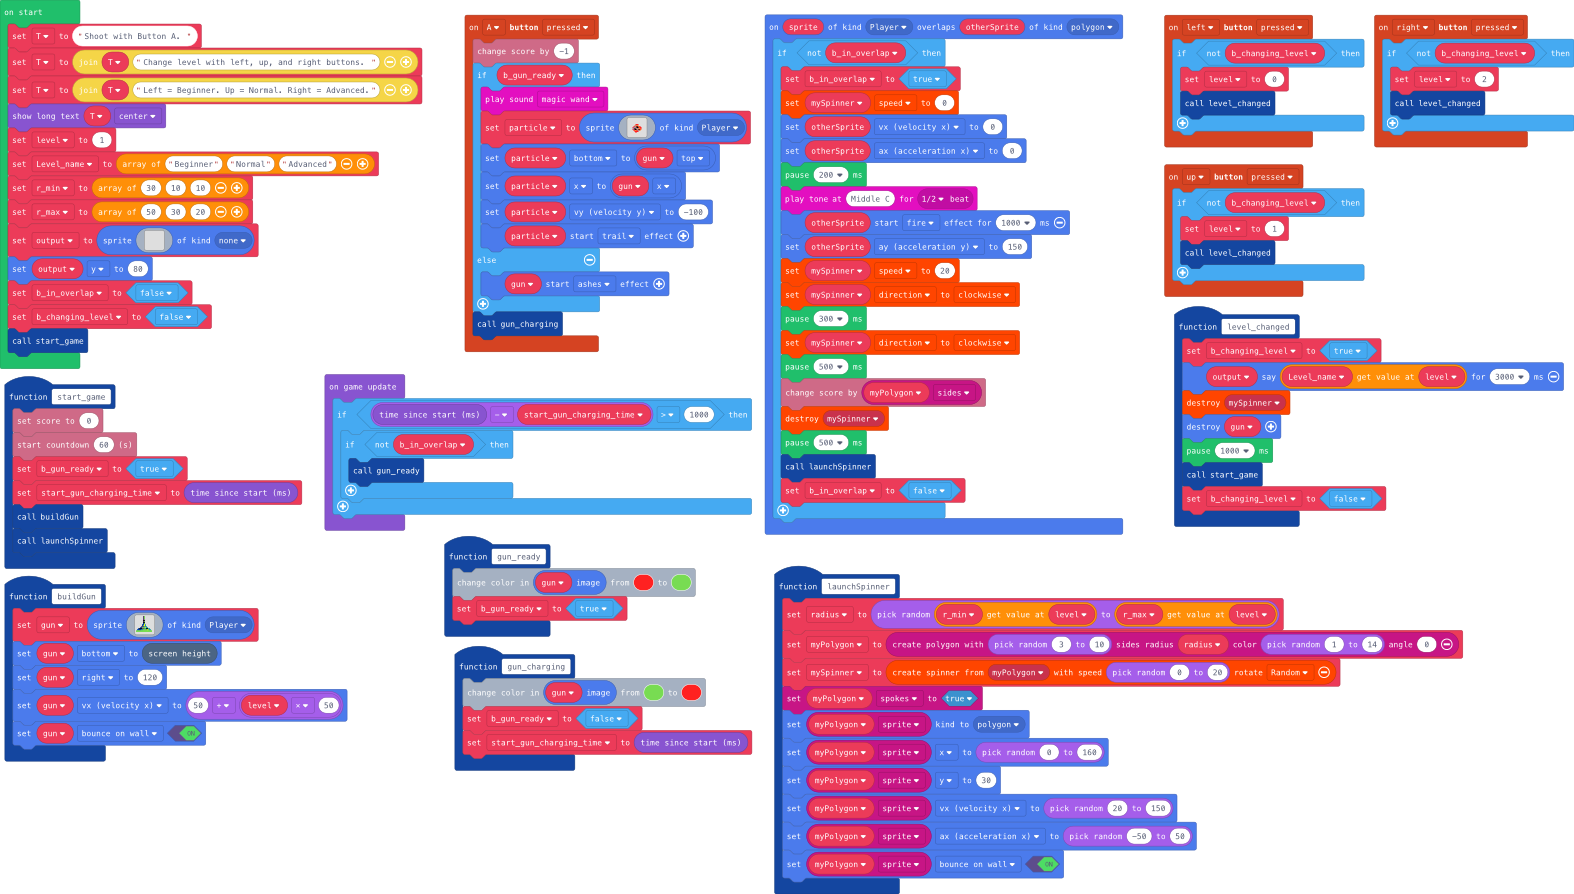
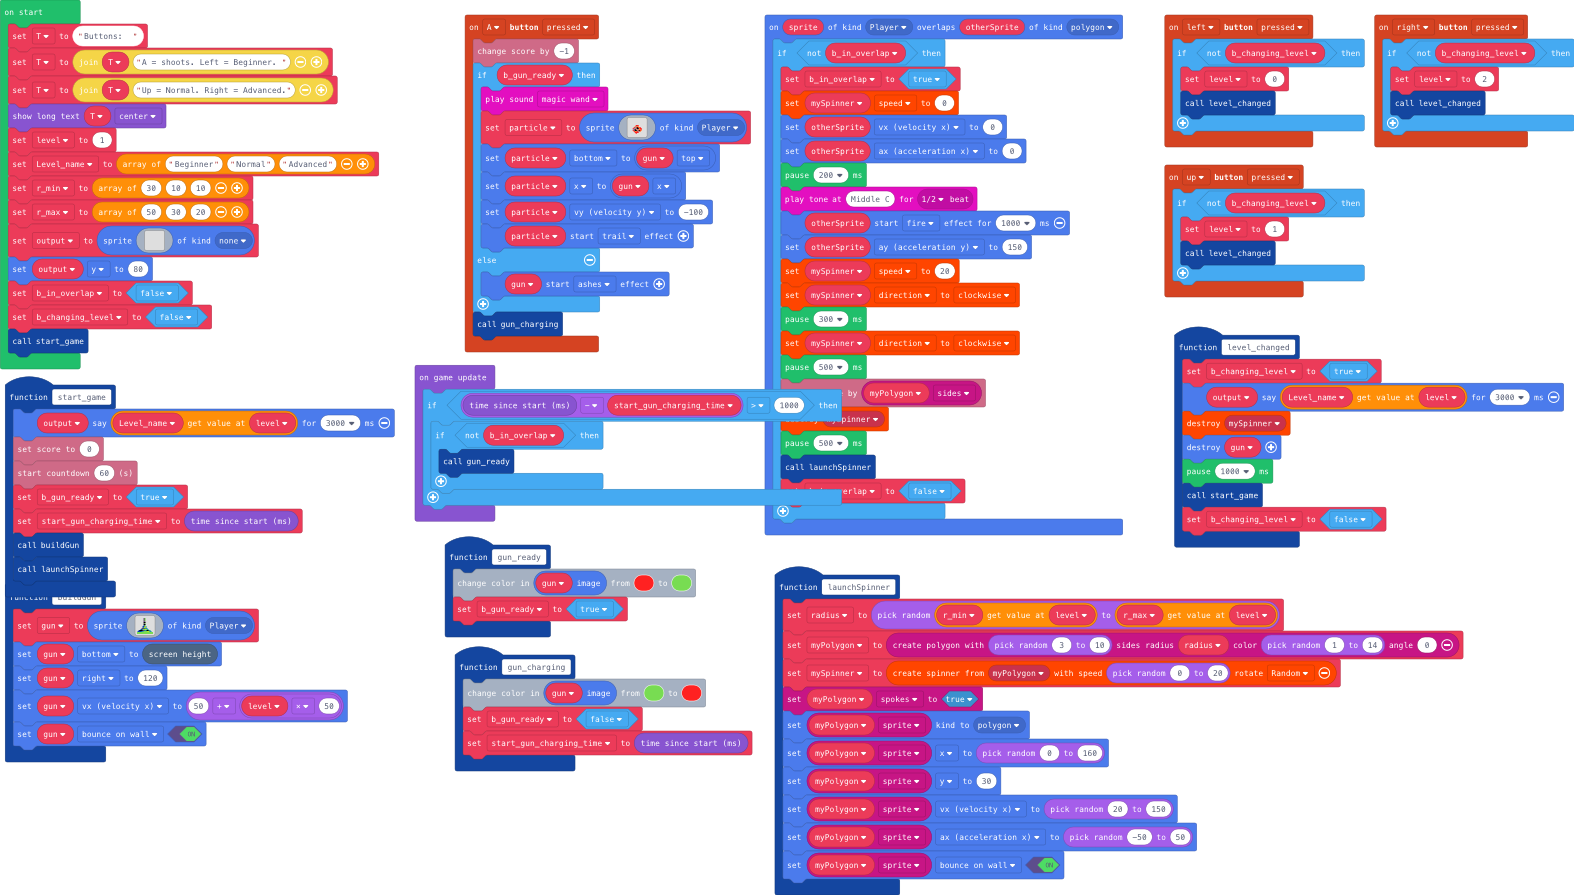
Update main.blocks, main.ts

diff --git a/main.ts b/main.ts
@@ -50,6 +50,7 @@ function launchSpinner () {
     myPolygon.sprite.setFlag(SpriteFlag.BounceOnWall, true)
 }
 function start_game () {
+    output.say(Level_name[level], 3000)
     info.setScore(0)
     info.startCountdown(60)
     b_gun_ready = true
@@ -149,9 +150,9 @@ let r_max: number[] = []
 let r_min: number[] = []
 let Level_name: string[] = []
 let level = 0
-let T = "Shoot with Button A. "
-T = "" + T + "Change level with left, up, and right buttons. "
-T = "" + T + "Left = Beginner. Up = Normal. Right = Advanced."
+let T = "Buttons:  "
+T = "" + T + "A = shoots. Left = Beginner. "
+T = "" + T + "Up = Normal. Right = Advanced."
 game.showLongText(T, DialogLayout.Center)
 level = 1
 Level_name = ["Beginner", "Normal", "Advanced"]
